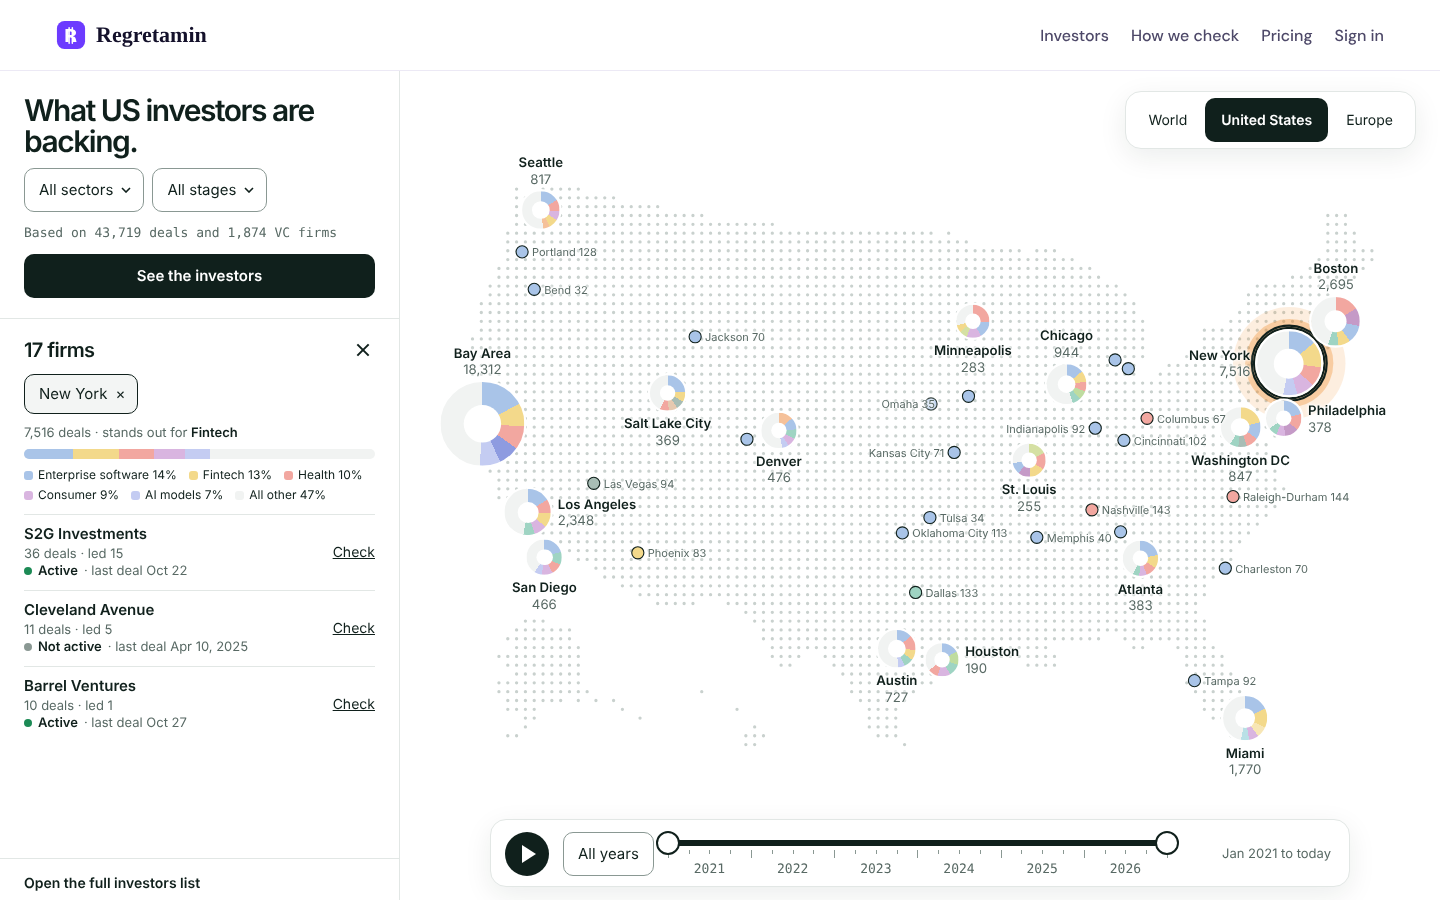
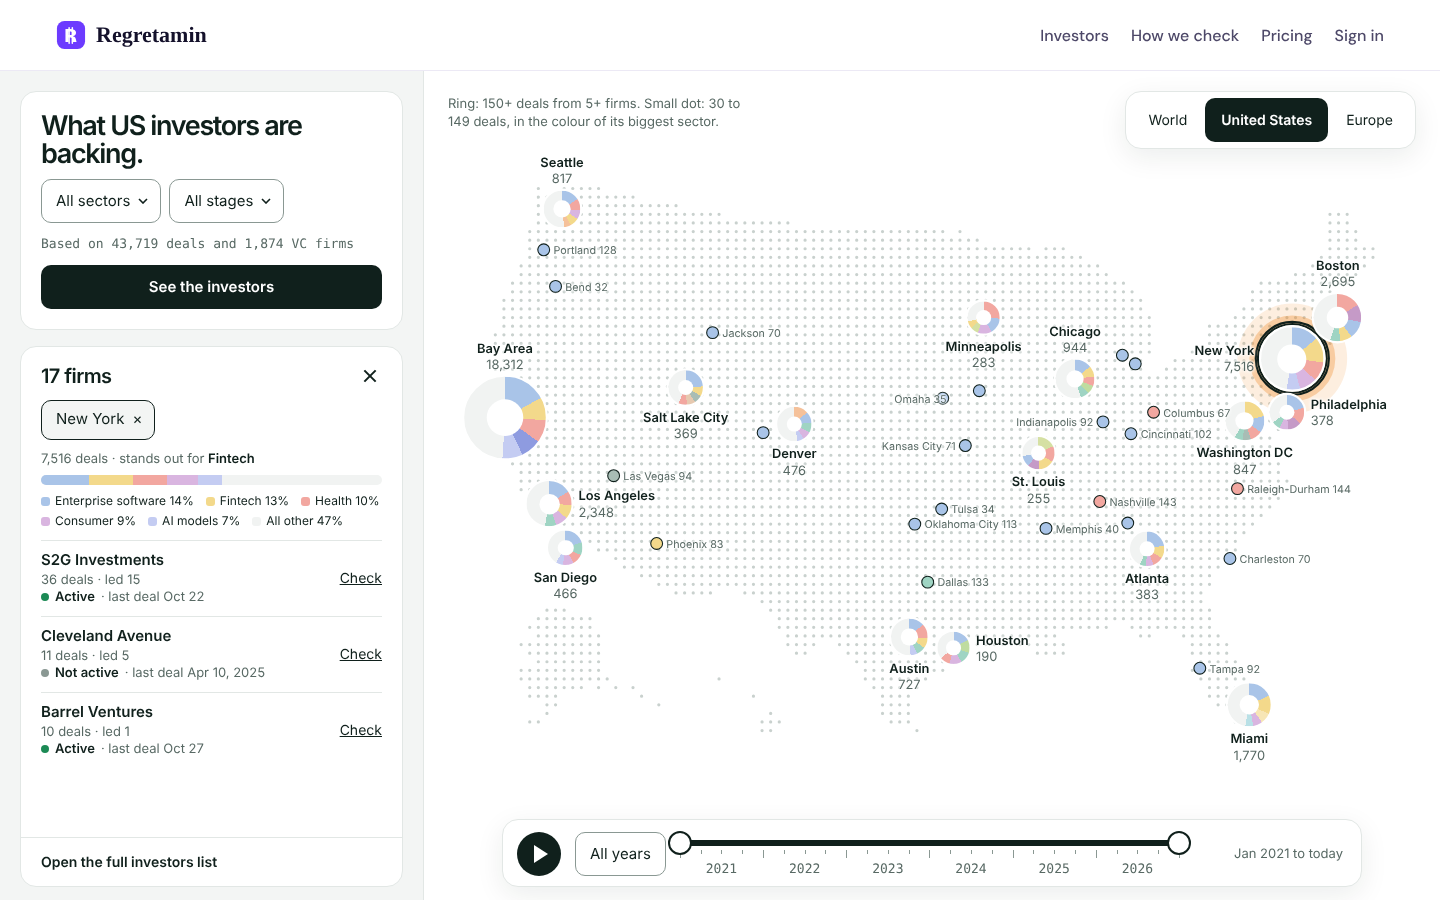
Map: layout A, two separate cards on a grey rail
The founder found the single white column read as one block. Controls
(headline, filters) and news (latest updates, or a place's firms) are now two
cards on a light grey rail; the explanation line moved to the top left of the map,
where it no longer runs over the updates.

Claude-Session: https://claude.ai/code/session_01MSMNJWpST3rY1PfuMMG21o

diff --git a/launch/style.css b/launch/style.css
@@ -1203,17 +1203,16 @@ main.wrap.firms-pg{max-width:1320px}
 .vm-tip .vm-pc{font-family:'Geist Mono',ui-monospace,monospace}
 .vm-tip .vm-btn{height:34px;line-height:34px;margin-top:4px;border-radius:8px;font-size:12px}
 .vm-colwrap{display:contents}
-/* Column layout: headline, filters and updates (or the firms list) in a left column; the map has the rest to itself. */
-.vm-col .vm-colwrap{position:absolute;left:0;top:0;bottom:0;width:400px;display:flex;flex-direction:column;background:#fff;border-right:1px solid var(--ml);z-index:3}
-.vm-col .vm-map{left:400px}
-.vm-col .vm-head{position:static;width:auto;border:0;border-bottom:1px solid var(--ml);border-radius:0;box-shadow:none;padding:24px 24px 20px}
-.vm-col .vm-side,.vm-col .vm-side.vm-list{position:static;width:auto;flex:1;min-height:0;border:0;border-radius:0;box-shadow:none;padding:18px 24px 0;overflow:auto}
-.vm-col .vm-side:not(.vm-list){padding-bottom:84px}
-.vm-col .vm-side.vm-list{overflow:hidden}
-.vm-col .vm-side>a.vm-more{margin:0 -24px;padding:0 24px}
+/* Column layout (founder's choice "A"): a grey rail on the left holds two separate cards, controls and news; the map has the rest. */
+.vm-col .vm-colwrap{position:absolute;left:0;top:0;bottom:0;width:424px;display:flex;flex-direction:column;gap:16px;padding:20px;background:var(--ms);border-right:1px solid var(--ml);z-index:3}
+.vm-col .vm-map{left:424px}
+.vm-col .vm-head{position:static;width:auto;box-shadow:none;padding:20px}
+.vm-col .vm-head h1{font-size:27px}
+.vm-col .vm-side,.vm-col .vm-side.vm-list{position:static;width:auto;flex:1;min-height:0;box-shadow:none;padding:16px 20px 8px;overflow:auto}
+.vm-col .vm-side.vm-list{overflow:hidden;padding-bottom:0}
+.vm-col .vm-side>a.vm-more{margin:0 -20px;padding:0 20px}
 .vm-col .vm-line{white-space:normal}
-.vm-col .vm-legend{left:24px;bottom:16px;width:352px;z-index:4;background:#fff}
-.vm-col:has(.vm-side.vm-list) .vm-legend{display:none}
+.vm-col .vm-legend{left:448px;top:24px;bottom:auto;width:300px}
 .vm-facts{display:flex;flex-direction:column;gap:8px;font-size:13px}
 .vm-facts b{font-weight:600;color:var(--mi)}
 .vm-bar{display:flex;height:10px;border-radius:5px;overflow:hidden;background:#F1F3F2}
@@ -1223,7 +1222,7 @@ main.wrap.firms-pg{max-width:1320px}
 .vm-key i{width:9px;height:9px;border-radius:3px}
 .vm-col .vm-zoom{top:20px;right:24px;bottom:auto;width:auto;flex-direction:row}
 .vm-col .vm-zoom button{text-align:center;padding:0 16px}
-.vm-col .vm-dock{left:calc(400px + (100% - 400px)/2);width:min(860px,calc(100% - 448px))}
+.vm-col .vm-dock{left:calc(424px + (100% - 424px)/2);width:min(860px,calc(100% - 472px))}
 @property --vm-a1{syntax:'<percentage>';inherits:false;initial-value:0%}
 @property --vm-a2{syntax:'<percentage>';inherits:false;initial-value:0%}
 @property --vm-a3{syntax:'<percentage>';inherits:false;initial-value:0%}

diff --git a/launch/js/map.js b/launch/js/map.js
@@ -13,7 +13,7 @@
   const FIXTURE = LOCAL ? qs.get('fixture') : null;
   const FX_FIRMS = FIXTURE && qs.get('fx_firms'), FX_UPDATES = FIXTURE && qs.get('fx_updates');
 
-  // Layout to try: everything that is not the map sits in one column on the left, and nothing covers the map.
+  // Layout (founder's choice): a grey rail on the left holds two cards, controls and news; nothing covers the map.
   // ?layout=float brings back the first layout (cards floating over the map) for comparison.
   const COL = qs.get('layout') !== 'float';
   if (COL) el.classList.add('vm-col');
@@ -323,7 +323,7 @@ ${COL ? placeFacts(L.place) : ''}<div class="vm-rows">${!L.data ? '' : L.data.fi
       return;
     }
     side.className = 'vm-card vm-side';
-    side.innerHTML = `<h2>Latest updates</h2>${S.updates.length ? S.updates.map((u, i) => {
+    side.innerHTML = `<div class="vm-lh"><h2>Latest updates</h2><span class="vm-tag">new rounds</span></div>${S.updates.length ? S.updates.map((u, i) => {
       const names = (u.firms || []).map((f) => f.name), who = names.length > 1 && (u.leads > 1 || !u.led) ? names[0] + ' and ' + names[1] : names[0] || '';
       const slug = u.firms && u.firms[0] && u.firms[0].slug;
       return `<a class="${i ? '' : 'vm-first'}" href="${slug ? ROOT + 'vc/' + encodeURIComponent(slug) + '/' : '#'}"><span class="vm-tag">${i ? '' : '<i class="vm-new" title="Newest update: its place is lit up on the map"></i>'}${esc(u.level && u.area && u.level === 'us' ? u.area : u.region || '')} · ${day(u.date)}</span><span class="vm-line" title="${esc(who)} ${u.led ? 'led' : 'joined'} a ${esc(u.round)} round in ${esc(u.startup)}">${esc(who)} ${u.led ? 'led' : 'joined'} a ${esc(u.round)} round in ${esc(u.startup)}</span></a>`;
